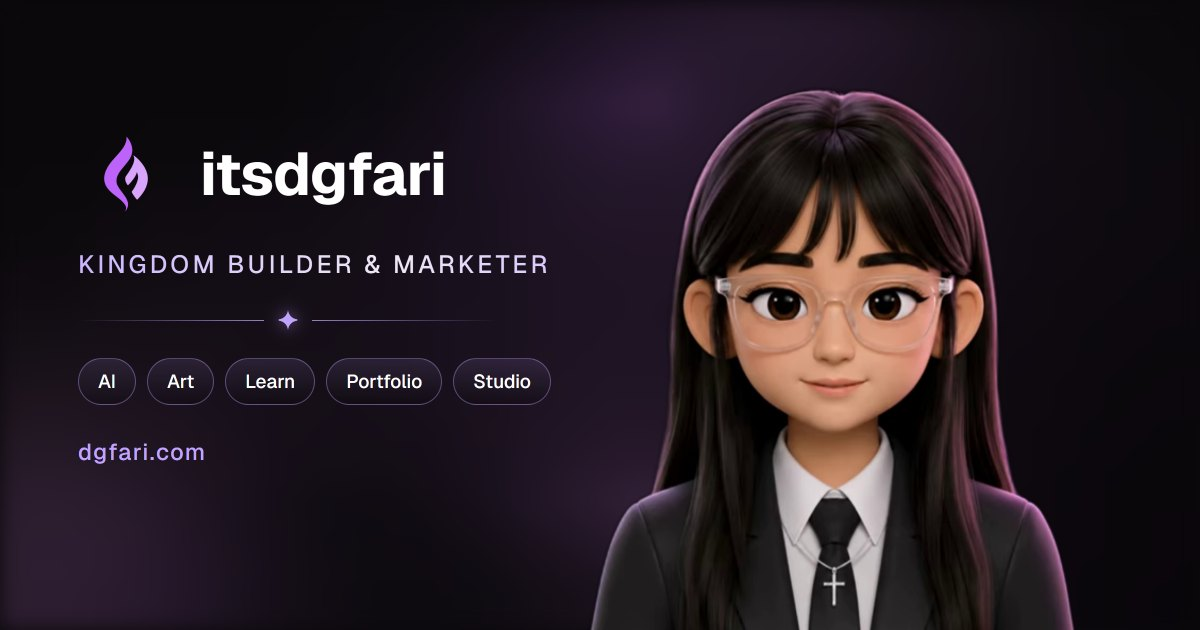
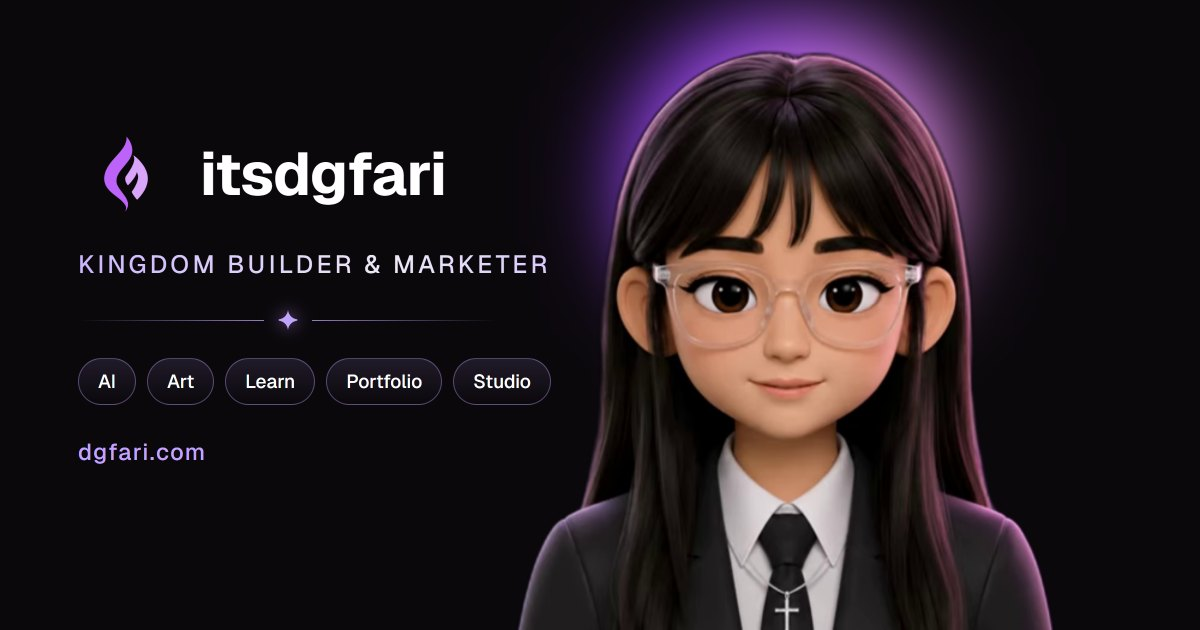
Give the preview card the portfolio's own backlight
You were right that the glow was wrong, and the reason is that it was
never the portfolio's glow. It was a wash I wrote, then a wash recovered
from the old card. Neither is what sits behind the hero.

The portfolio's is the .character-rim recipe in Landing.css: a pink disc
carrying a violet-blue inset shadow pushed off centre, blurred hard. That
offset is what makes it read as two colours, warm on one side and cool on
the other. It is lifted verbatim, and the ground under it is plain
--backgroundColor, which is what the hero sits on there too.

Sized to stay fully inside the card. Bigger looks better in isolation and
gets sliced flat by the top edge, and it lifts the field until the
wordmark and pills lose contrast at the width a card is actually seen at.

The hero is larger again, 840px, and dropped further past the bottom edge
so she keeps headroom rather than crowding the top. The glow's position is
derived from her head, found by scanning the frame's alpha, so the two
cannot drift apart when either changes.

63KB. ?v= bumped to 5 in all four places.

Changed region(s): [[0.4008, 0.0, 0.8942, 1.0], [0.0, 0.6635, 0.185, 0.9952]]

diff --git a/source-assets/og/og-template.html b/source-assets/og/og-template.html
@@ -18,22 +18,31 @@
     color: #fff;
   }
 
-  /* The previous card's own background, recovered from it rather than
-     re-invented: masked where the character and the text sat, averaged to a
-     coarse grid from the pixels that were genuinely background, and the gaps
-     diffused in. Matches the original within two levels per channel. */
-  .bg {
+  /* The portfolio's own backlight: the .character-rim recipe from Landing.css
+     verbatim. A pink disc with a violet-blue inset shadow pushed off centre,
+     blurred hard. That offset is what makes it read as two colours, warm on
+     one side and cool on the other, rather than as one flat wash.
+
+     The ground under it is plain --backgroundColor, which is what the hero
+     sits on in the portfolio too. */
+  .rim {
     position: absolute;
-    inset: 0;
-    background-size: 1200px 630px;
-    background-repeat: no-repeat;
+    left: var(--rim-x);
+    top: var(--rim-y);
+    width: var(--rim-size);
+    height: var(--rim-size);
+    border-radius: 50%;
+    background-color: #f59bf8;
+    box-shadow: inset var(--rim-shadow);
+    filter: blur(var(--rim-blur));
+    transform: translate(-50%, -50%) scale(var(--rim-scale));
   }
 
   .hero {
     position: absolute;
     right: 0;
     bottom: -14px;
-    width: 744px;
+    width: var(--hero-w);
     height: auto;
   }
 
@@ -120,7 +129,7 @@
 </head>
 <body>
 <div class="card">
-  <div class="bg" id="bg"></div>
+  <div class="rim" id="rim"></div>
   <img class="hero" id="hero" src="">
 
   <div class="left">

diff --git a/index.html b/index.html
@@ -23,7 +23,7 @@
          not resolve a root-relative og:image. Width and height let them lay the
          card out before the image has finished downloading, which is the
          difference between a large card and a small one in some clients. -->
-    <meta property="og:image" content="https://dgfari.com/dgfari-og.jpg?v=4" />
+    <meta property="og:image" content="https://dgfari.com/dgfari-og.jpg?v=5" />
     <meta property="og:image:width" content="1200" />
     <meta property="og:image:height" content="630" />
     <meta property="og:image:type" content="image/jpeg" />
@@ -41,7 +41,7 @@
     <meta name="twitter:card" content="summary_large_image" />
     <meta name="twitter:title" content="DGFari" />
     <meta name="twitter:description" content="Kingdom builder and marketer. Portfolio, writing, art and studio, all in one place." />
-    <meta name="twitter:image" content="https://dgfari.com/dgfari-og.jpg?v=4" />
+    <meta name="twitter:image" content="https://dgfari.com/dgfari-og.jpg?v=5" />
     <meta name="twitter:image:alt" content="itsdgfari, kingdom builder and marketer: portfolio, learn, art and studio" />
   </head>
   <body>

diff --git a/src/components/ShareButton.tsx b/src/components/ShareButton.tsx
@@ -15,7 +15,7 @@ interface Props {
 
 const ShareButton = ({
   url,
-  image = "/dgfari-og.jpg?v=4",
+  image = "/dgfari-og.jpg?v=5",
   // The name on the preview card, sitting above the domain. The wordmark on
   // the page is lowercase; this is the brand.
   title = "DGFari",

diff --git a/src/components/SEO.tsx b/src/components/SEO.tsx
@@ -1,7 +1,7 @@
 import { useEffect } from "react";
 
 const SITE_URL = "https://dgfari.com";
-const DEFAULT_IMAGE = "/dgfari-og.jpg?v=4";
+const DEFAULT_IMAGE = "/dgfari-og.jpg?v=5";
 
 interface Props {
   title: string;

diff --git a/source-assets/og/README.md b/source-assets/og/README.md
@@ -39,16 +39,35 @@ Keep it at 1200x630. Anything else gets letterboxed or cropped by one platform
 or another, and the crop is never the one you would have chosen.
 
 
-## The background
+## The backlight
 
-`og-bg.png` is not a gradient anyone wrote. It is the previous card's own
-background, recovered from the image with `rebuild-bg.mjs`: the card is masked
-where the character and the text sat, the remaining pixels are averaged down to
-a coarse grid, the emptied cells are filled by diffusing their neighbours
-inward, and the result is scaled back up and blurred. It reproduces the
-original within two levels per channel at every point that was measurable.
+The glow behind her is not a gradient anyone invented. It is the
+`.character-rim` recipe from `src/components/styles/Landing.css`, the same
+backlight the portfolio hero sits in: a pink disc (`#f59bf8`) carrying a
+violet-blue inset shadow (`rgba(85, 0, 255, 0.65)`) pushed 66px right and 35px
+down, blurred hard. That off-centre offset is the whole trick, and it is why the
+glow reads as two colours, warm on the upper left and cool on the lower right,
+rather than as one flat wash.
 
-That indirection exists because a hand-written radial gradient was tried first
-and came out visibly bluer and more saturated than the card it replaced. If the
-background ever needs to change again, edit `og-bg.png` or re-run the rebuild
-against whichever card is the reference, rather than approximating it in CSS.
+It is sized to stay fully inside the card. A larger one looks more dramatic in
+isolation and gets sliced flat by the top edge, which reads as an accident, and
+it lifts the whole field so the wordmark and pills lose contrast at the ~350px
+width a card is actually seen at in a feed.
+
+Two earlier attempts are worth not repeating. A hand-written radial gradient
+came out visibly bluer and more saturated than the card it replaced. Recovering
+the old card's background by masking and diffusion matched it exactly but kept a
+wash that was never the portfolio's look in the first place. Neither is needed:
+the ground is plain `--backgroundColor` with this one glow on it, which is what
+the hero sits on in the portfolio.
+
+The glow's position is derived from the artwork, not hardcoded. `render-og.mjs`
+finds her head by scanning the frame's alpha for the widest opaque span across
+the top, so changing `CARD.hero` moves the glow with her instead of leaving a
+second number to keep in sync.
+
+## Tuning it
+
+Everything adjustable lives in the `CARD` object at the top of `render-og.mjs`:
+hero width, how far below the bottom edge she is cropped (raise `drop` to buy
+headroom above her head), and the four glow values.
